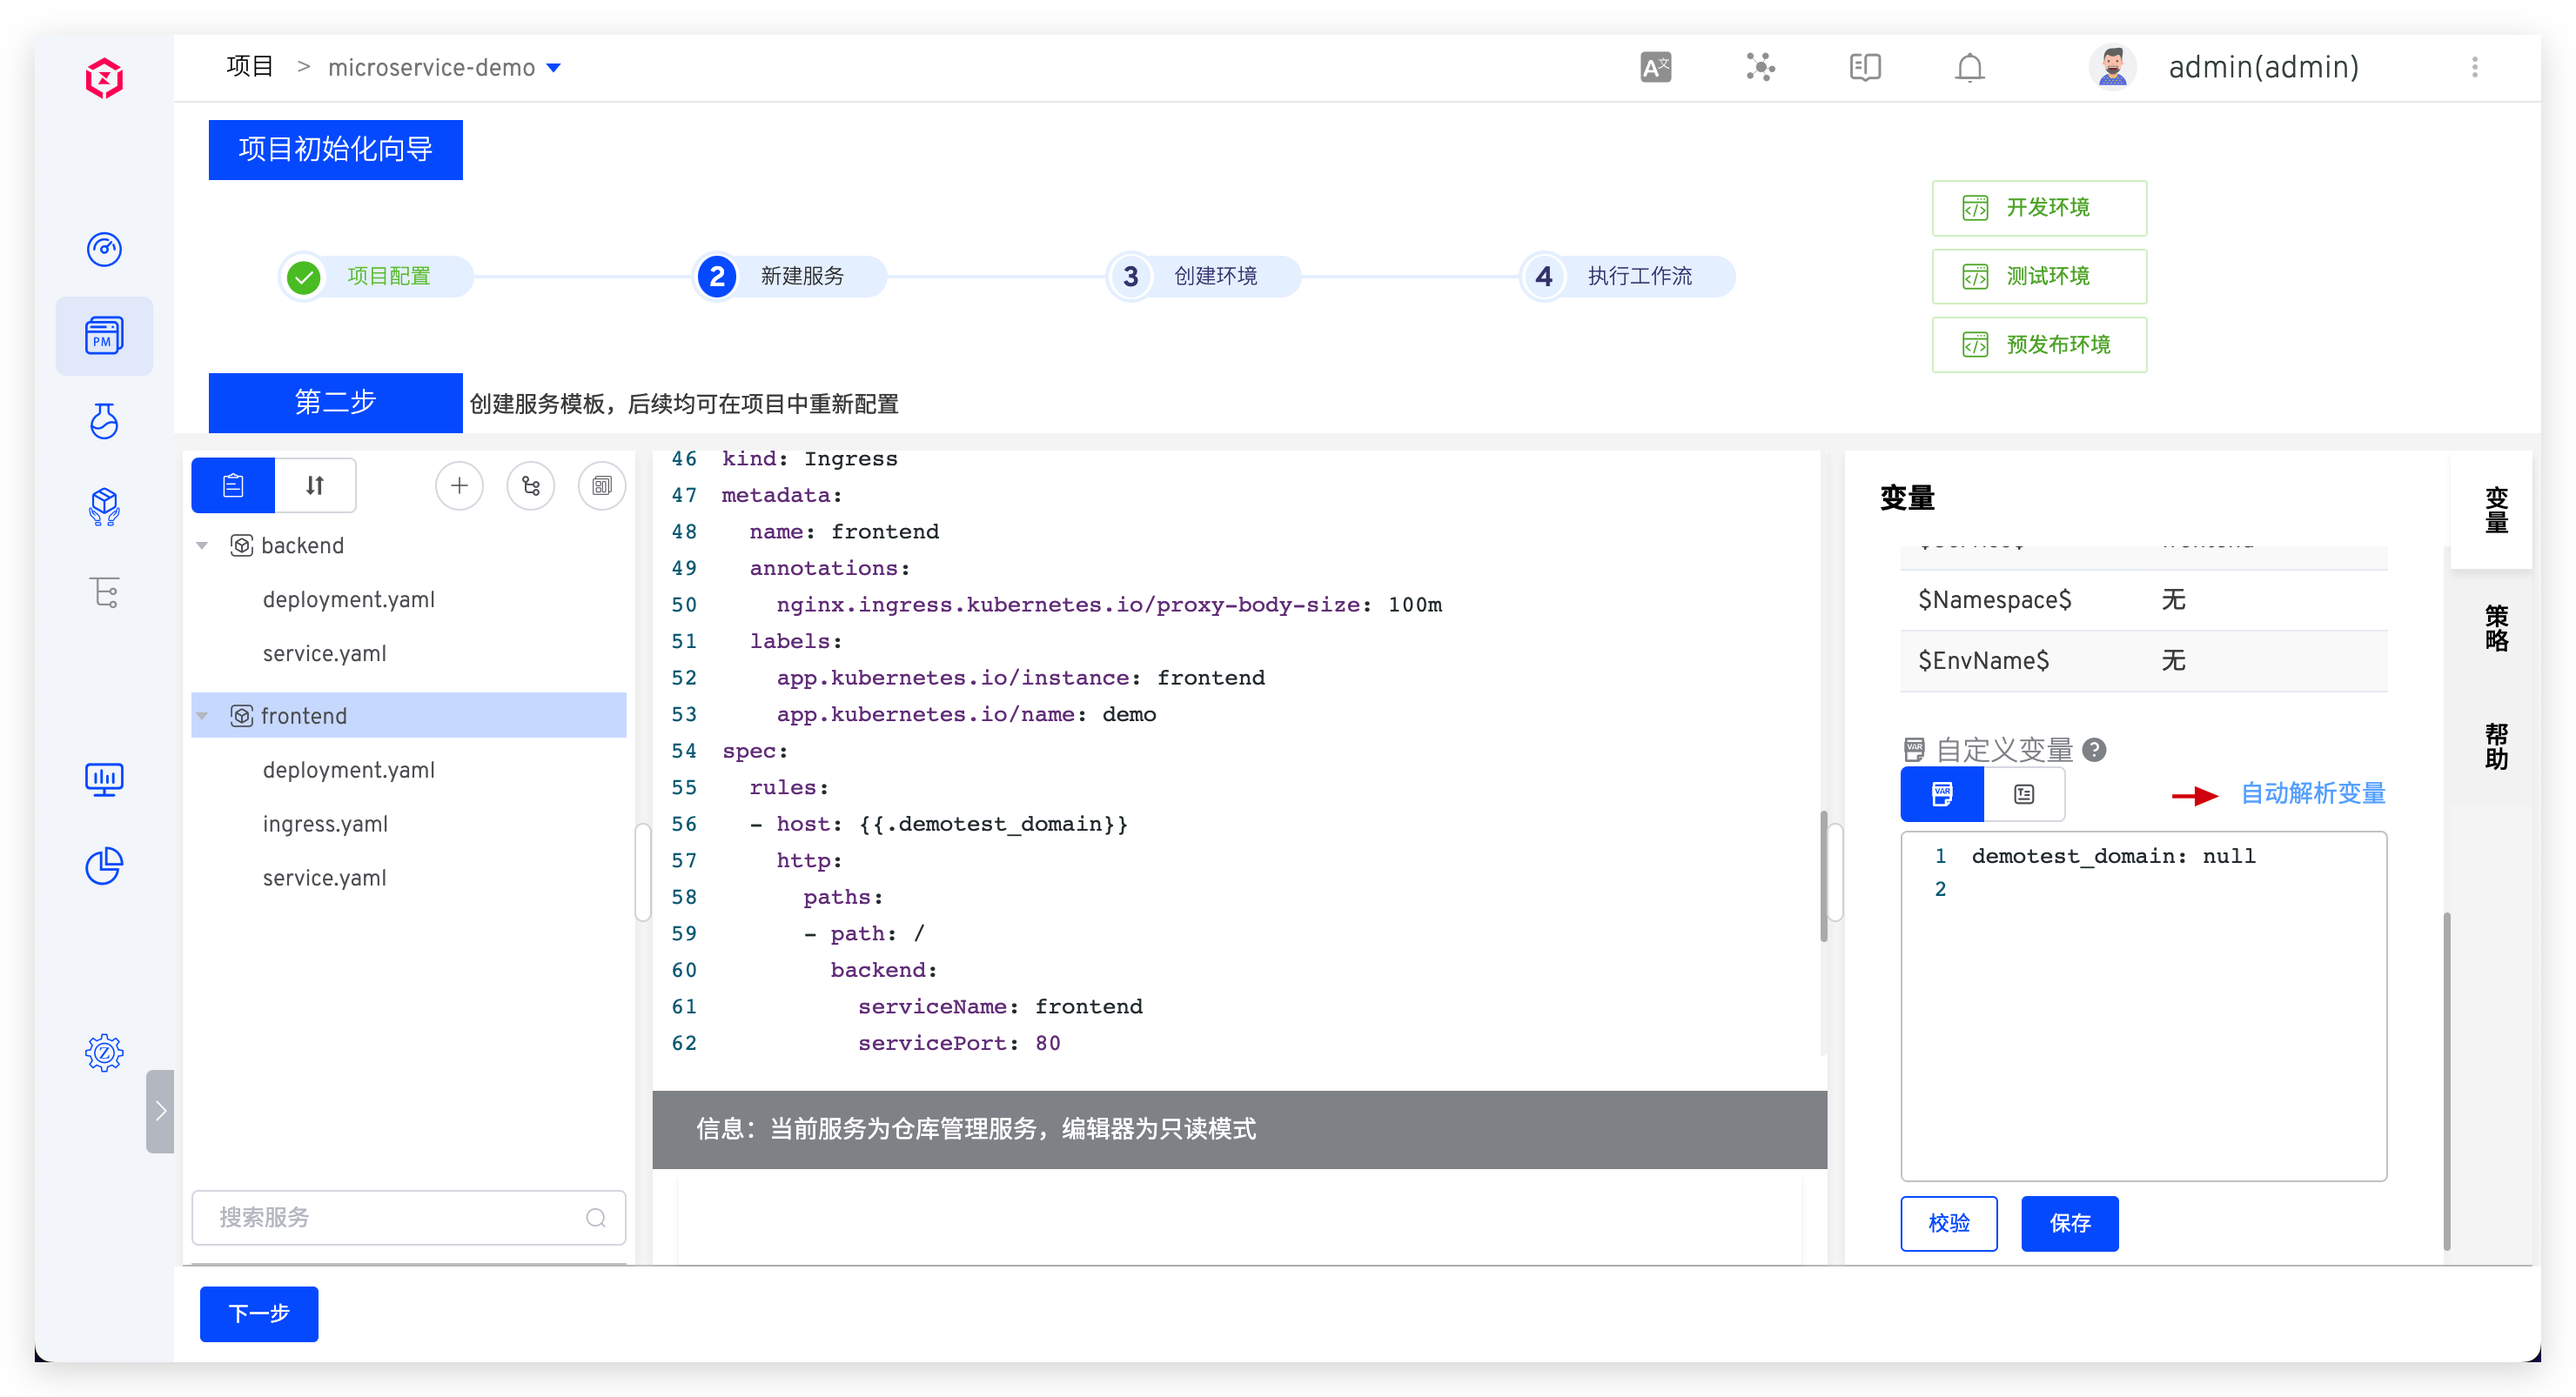
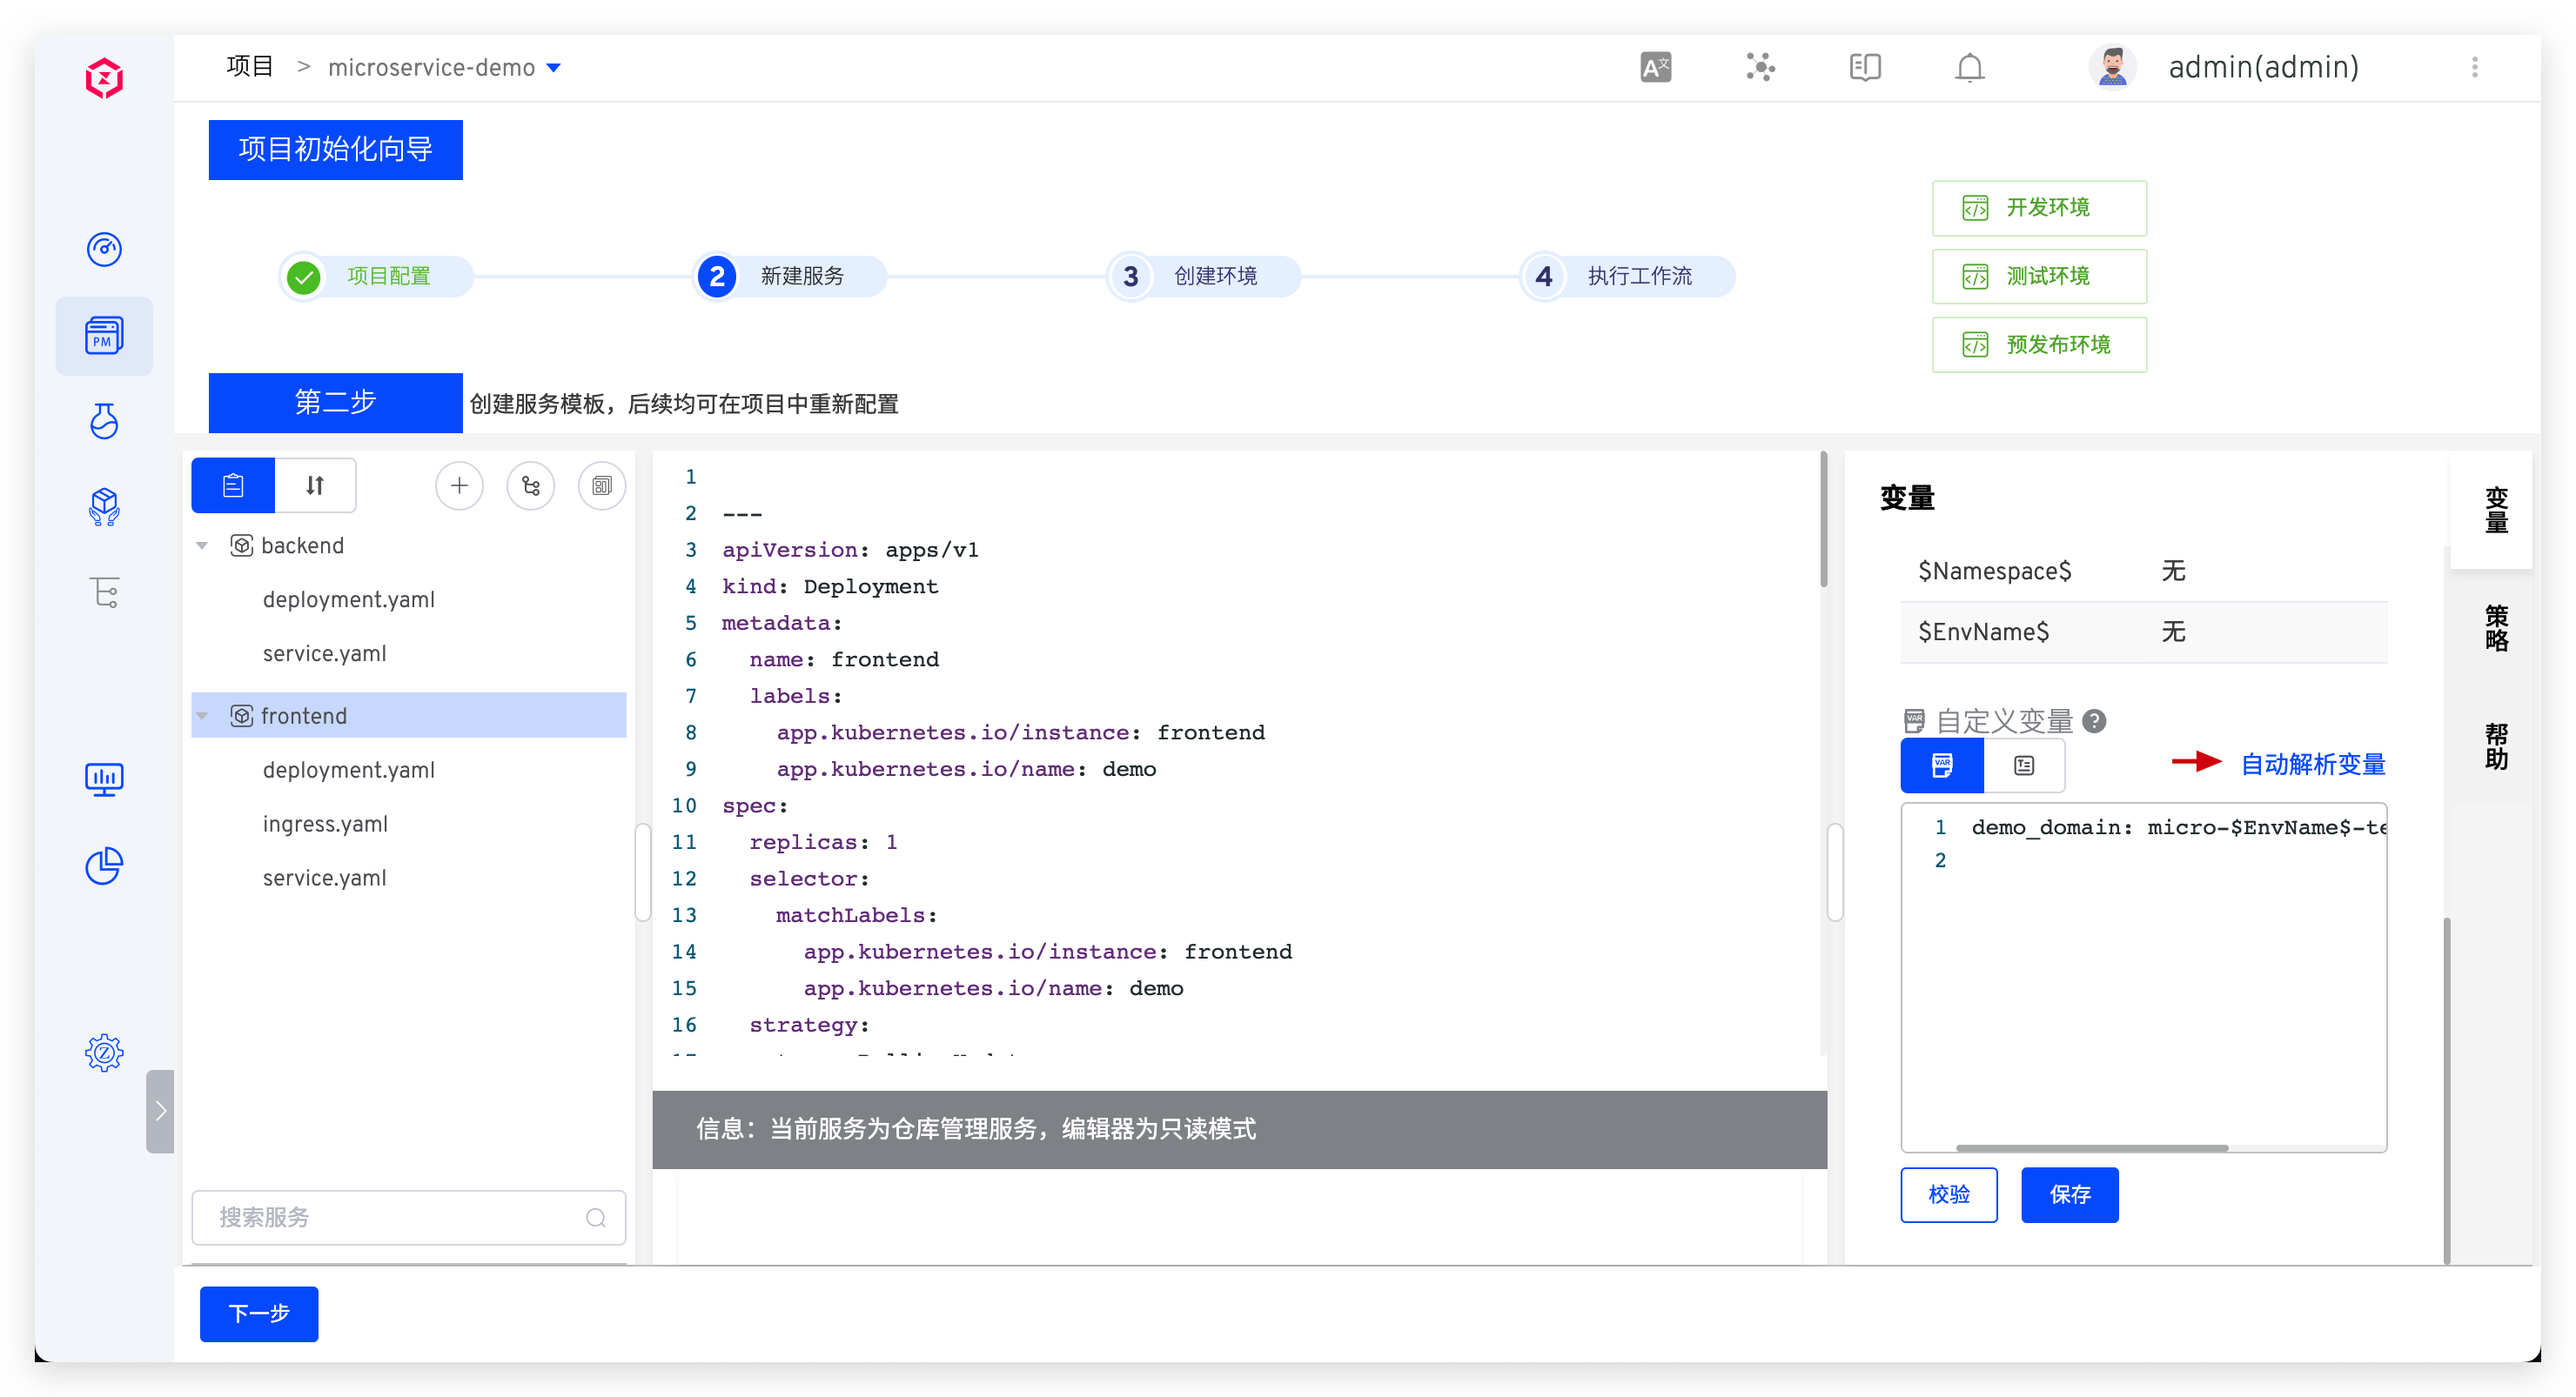
fix comments

diff --git a/tutorials-markdown/GitLab/GitLab.md b/tutorials-markdown/GitLab/GitLab.md
@@ -111,7 +111,7 @@ Zadig 提供三种方式管理服务配置：
 
 ![onboarding-2](./img/add_service_2.png)
 
-加载服务配置后，设置配置中的自定义变量 `demo_domain` 值为 `micro-$EnvName$-test.co.coderover.cn`。此处使用系统内置变量 `$EnvName$` 来为域名赋值，当环境创建完毕后，不同环境中的服务将会有不同的访问地址。
+加载服务配置后，点击 `frontend` 服务，点击`自动解析变量`，设置配置中的自定义变量 `demo_domain` 值为 `micro-$EnvName$-test.co.coderover.cn`。此处使用系统内置变量 `$EnvName$` 来为域名赋值，当环境创建完毕后，不同环境中的服务将会有不同的访问地址。
 
 Positive
 : 请根据自己的域名及解析情况按需填写此处 `demo_domain` 的值
